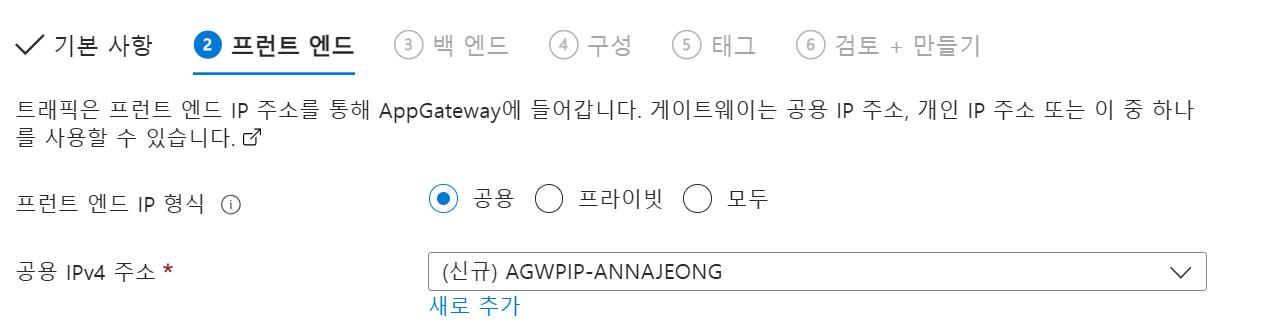
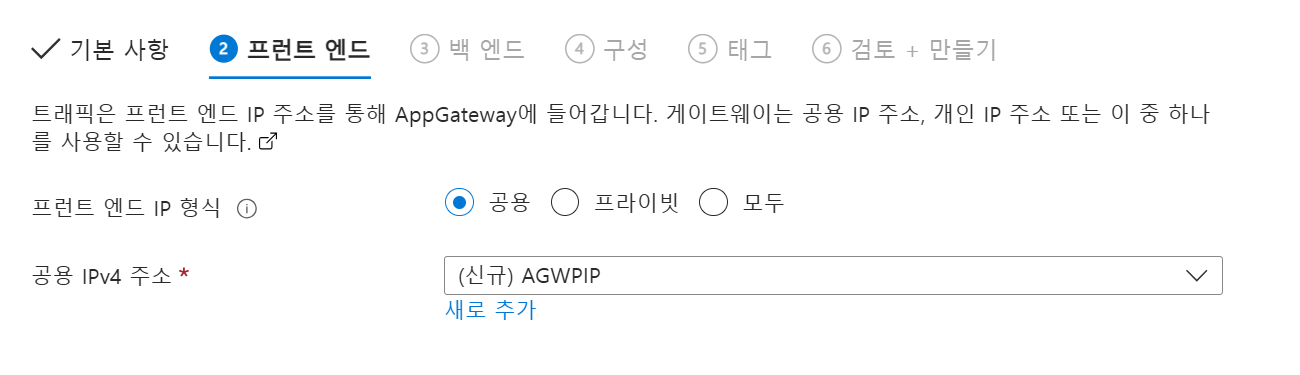
update contents

diff --git a/1. 네트워크 리소스 배포/README.md b/1. 네트워크 리소스 배포/README.md
@@ -1,69 +1,46 @@
-# Network Resource Deploy
+# 1. 네트워크 리소스 배포
 
 ## 리소스 그룹 생성
 
 1. 리소스 그룹 메뉴로 이동합니다.
 2. 왼쪽 상단 만들기 버튼을 클릭합니다.
-3. 리소스 그룹 이름에 `langdingzone-rg` 를 입력하고 영역에 `(Asia Pacific) Korea Central`을 선택합니다.
+3. 리소스 그룹 이름에 `landingzone-workshop-rg` 를 입력하고 영역에 `(Asia Pacific) Korea Central`을 선택합니다.
 4. 검토+만들기 버튼을 클릭 후, 만들기 버튼을 클릭합니다.
-
-## Virtual WANs 구성
-
-### Virtual WANs 생성
-
-1. **Virtual WANs 메뉴**로 이동합니다.
-2. 왼쪽 상단 `만들기` 버튼을 클릭합니다.
-3. 다음과 같이 설정 후, 검토+만들기 버튼을 클릭하고 만들기 버튼을 클릭합니다.
-    - 구독 : 할당 받은 구독 선택
-    - 리소스 그룹 : 생성한 본인 리소스 그룹 선택
-    - 지역 : Korea Central
-    - 이름 : `VirtualWAN`
-    - 유형 : 표준
-
-### Virtual Hub 생성
-
-1. 리소스가 생성되면 `리소스로 이동` 버튼을 클릭합니다.
-2. 왼쪽 메뉴에서 `연결 > 허브`를 선택하고 상단에 `새 허브` 버튼을 클릭합니다.
-3. 다음과 같이 설정 후 검토 만들기 버튼을 클릭합니다.
-    - 지역 : Korea Central
-    - 이름 : `VirtualHub`
-    - 허브 프라이빗 주소 공간 : 10.0.0.0/16
-    - 가상 허브 용량 : 2 라우팅 인프라 단위, 3 Gbps 라우터, 2000개 VM 지원
-    - 허브 라우팅 기본 설정 : ExpressRoute
-4. 만들기 버튼을 클릭합니다.
-
-> 리소스가 생성되는 동안 화면을 이동하여도 리소스는 계속해서 배포됩니다.
-> 
 
 ## 가상 네트워크 구성
 
-### 보안 네트워크 생성
+### 허브 네트워크 생성
 
 1. 브라우저 새 탭에서 [Azure Portal](https://portal.azure.com)을 엽니다.
 2. **가상 네트워크 메뉴**로 이동합니다.
 3. 왼쪽 상단 `만들기` 버튼을 클릭합니다.
 4. 다음과 같이 설정 후 `다음` 버튼 클릭합니다.
     - 구독 : 할당 받은 구독 선택
-    - 리소스 그룹 : 생성한 본인 리소스 그룹 선택
-    - 가상 네트워크 이름 : `SecurityVNet`
+    - 리소스 그룹 : `landingzone-workshop-rg`
+    - 가상 네트워크 이름 : `HubVNet`
     - 지역 : (Asia Pacific) Korea Central
 5. 기본 설정을 그대로 두고 `다음` 버튼을 클릭합니다.
 6. IP 주소 탭에서 CIDR 공간을 지정합니다.
-    - 가상 네트워크 CIDR : 10.1.0.0/16
+    - 가상 네트워크 CIDR : 10.0.0.0/16
     - default 서브넷의 `연필 모양 아이콘`을 클릭하여 서브넷을 수정합니다.
         - 서브넷 용도 : Default
         - 이름 : `AGWSubnet`
         - 나머지 설정은 그대로 두고 `저장` 버튼 클릭
 7. `검토+만들기` 버튼을 클릭하고 만들기 버튼을 클릭합니다.
 
-### 서비스 네트워크 생성
+### 스포크 네트워크 생성
 
 1. 다시 `가상 네트워크 메뉴`로 이동합니다.
 2. 동일하게 아래와 같이 가상 네트워크를 설정합니다.
-    - 가상 네트워크 이름 : `ServiceVNet`
-    - 가상 네트워크 CIDR : 10.2.0.0/16
+    - 가상 네트워크 이름 : `SpokeVNet`
+    - 가상 네트워크 CIDR : 10.1.0.0/16
     - 서브넷 설정
         - 서브넷 용도 : Default
         - 이름 : `AppSubnet`
 
+> Azure의 기본 아웃바운드 연결이 2026년 3월 31일 이후로 종료됩니다.
+> 
+
 ![image.png](./images/image.png)
+
+![image.png](./images/image%201.png)

diff --git a/2. 보안 리소스 배포/README.md b/2. 보안 리소스 배포/README.md
@@ -10,8 +10,8 @@
     ![image.png](./images/image.png)
     
     - 구독 : 할당 받은 구독 선택
-    - 리소스 그룹 : 생성한 본인 리소스 그룹 선택
-    - 게이트웨이 이름 : `ApplicationGateway`
+    - 리소스 그룹 : `landingzone-workshop-rg`
+    - 게이트웨이 이름 : `AppGateway`
     - 지역 : Korea Central
     - 계층 : WAF V2
     - 자동 크기 조정 : 예
@@ -22,7 +22,7 @@
     - WAF 정책 : `새로 만들기` 클릭
         - 이름 : `waf-default-policy`
         - `확인` 버튼 클릭
-    - 가상 네트워크 : `SecurityVNet`
+    - 가상 네트워크 : `HubVNet`
     - 서브넷 : `AGWSubnet`
 3. `다음: 프런트 엔드 >` 버튼을 클릭합니다.
     
@@ -81,8 +81,8 @@
 
 1. WAF(Web Application Firewall) 정책 메뉴로 이동합니다.
 2. 생성한 `waf-default-policy`를 클릭합니다.
-3. 왼쪽 메뉴에서 관리형 규칙을 선택합니다.
-4. 개요에서 `방지 모드로 전환`을 클릭합니다.
+3. 개요에서 `방지 모드로 전환`을 클릭합니다.
+4. 왼쪽 메뉴에서 설정 > 관리형 규칙을 선택합니다.
 5. 할당 버튼을 클릭하고 봇 관리 규칙 집합에서 `Microsoft_BotManagerRuleSet_1.0`을 선택하고 저장 버튼을 클릭합니다.
 
 ## 방화벽 배포
@@ -90,7 +90,7 @@
 ### AzureFirewallSubnet 서브넷 추가
 
 1. **가상 네트워크 화면**으로 이동합니다.
-2. 생성한 `SecurityVNet` 을 선택합니다.
+2. 생성한 `HubVNet` 을 선택합니다.
 3. 왼쪽 메뉴에서 `설정 > 서브넷`을 클릭합니다.
 4. 왼쪽 상단의 `+ 서브넷` 버튼을 클릭합니다.
 5. 다음과 같이 구성하고 `추가` 버튼을 클릭합니다.
@@ -99,7 +99,7 @@
     
     - 서브넷 용도 : Azure Firewall
     - 이름 : **AzureFirewallSubnet**
-    - 시작 주소 : `10.1.1.0`
+    - 시작 주소 : `10.0.1.0`
 
 ### 방화벽 배포
 
@@ -107,7 +107,7 @@
 2. 왼쪽 상단에 `만들기` 버튼을 클릭합니다.
 3. 아래와 같이 구성합니다.
     - 구독 : 할당 받은 구독 선택
-    - 리소스 그룹 : 생성한 본인 리소스 그룹 선택
+    - 리소스 그룹 : `landingzone-workshop-rg`
     - 이름 : `Firewall`
     - 지역 : Korea Central
     - 방화벽 SKU : 표준
@@ -116,10 +116,15 @@
         - 정책 이름 : `default-fw-policy`
         - `확인` 버튼 클릭
     - 가상 네트워크 선택 : 기존 항목 사용
-    - 가상 네트워크 : `SecurityVNet`
+    - 가상 네트워크 : `HubVNet`
     - 공용 IP 주소 : `새로 추가` 클릭
         - 이름 : `FWPIP`
         - **확인** 버튼 클릭
     - `Enable Firewall Management NIC 체크박스 해제`
 4. `다음: 태그>` 버튼을 클릭합니다.
 5. `다음: 검토 + 만들기 >` 버튼을 클릭하고 `만들기` 버튼을 클릭합니다.
+
+> **Firewall Management NIC**은 방화벽 관리 트래픽을 고객 데이터 트래픽과 분리하기 위한 전용 관리 인터페이스이며, Azure 플랫폼 전용 Public IP가 연결된 별도의 서브넷이 필요합니다.
+> 
+
+![image.png](./images/image%207.png)

diff --git a/4. 테스트 리소스 배포/README.md b/4. 테스트 리소스 배포/README.md
@@ -22,8 +22,6 @@
         - 인증 유형 : 암호
         - 사용자 이름 : azureuser
         - 암호 : Workshop12!@
-    - 인바운드 포트 규칙
-        - 공용 인바운드 포트 : 없음
 4. 나머지 설정은 그대로 두고 `다음` 버튼을 클릭합니다.
 5. 디스크 설정은 그대로 두고 `다음` 버튼을 클릭합니다.
 6. 네트워킹 탭을 아래와 같이 구성합니다.
@@ -33,8 +31,12 @@
     - 가상 네트워크 : `ServiceVNet`
     - 서브넷 : `AppSubnet`
     - 공용 IP : (신규) backend-vm-ip
-    - NIC 네트워크 보안 그룹 : 기본
 7. 나머지 설정은 그대로 두고 `검토 + 만들기` 버튼을 클릭하여 가상 머신을 생성합니다.
+8. 리소스가 생성되면 `리소스로 이동` 버튼을 클릭합니다.
+9. 개요 페이지에서 `기본 NIC 공용 IP`를 복사합니다.
+    
+    ![image.png](./images/image%202.png)
+    
 
 ## 샘플 애플리케이션 구성
 
@@ -58,7 +60,7 @@
     ```
     
 
-### 네트워크 설정
+### 네트워크 설정 (테스트용)
 
 1. **생성한 가상 머신 화면**으로 이동합니다.
 2. 왼쪽 메뉴에서 `네트워크 설정`을 클릭합니다.
@@ -67,10 +69,10 @@
     
     ![Untitled](./images/Untitled.png)
     
-5. 왼쪽 메뉴에서 `개요`를 클릭한 뒤, `VM의 공용 IP`를 복사합니다. (프라이빗 IP 주소도 복사해 둡니다.)
-
-    ![Untitled](./images/image%202.png)
-
-6. 브라우저에서 새 탭을 열고 복사한 공용 IP를 붙여넣고 애플리케이션이 정상 동작하는지 확인합니다.
-
-    ![Untitled](./images/image%203.png)
+    ## 애플리케이션 게이트웨이 연결
+    
+    1. **애플리케이션 게이트웨이 화면**으로 이동 후 `생성한 애플리케이션 게이트웨이`를 클릭합니다.
+    2. 왼쪽 메뉴에서 `백 엔드 풀`을 클릭합니다.
+    3. 생성한 `backend-pool`을 클릭합니다.
+    4. 하단 백 엔드 대상에서 대상 유형을 가상 머신을 선택하고 생성한 `backend-vm`을 선택합니다.
+    5. `저장` 버튼을 클릭합니다.
